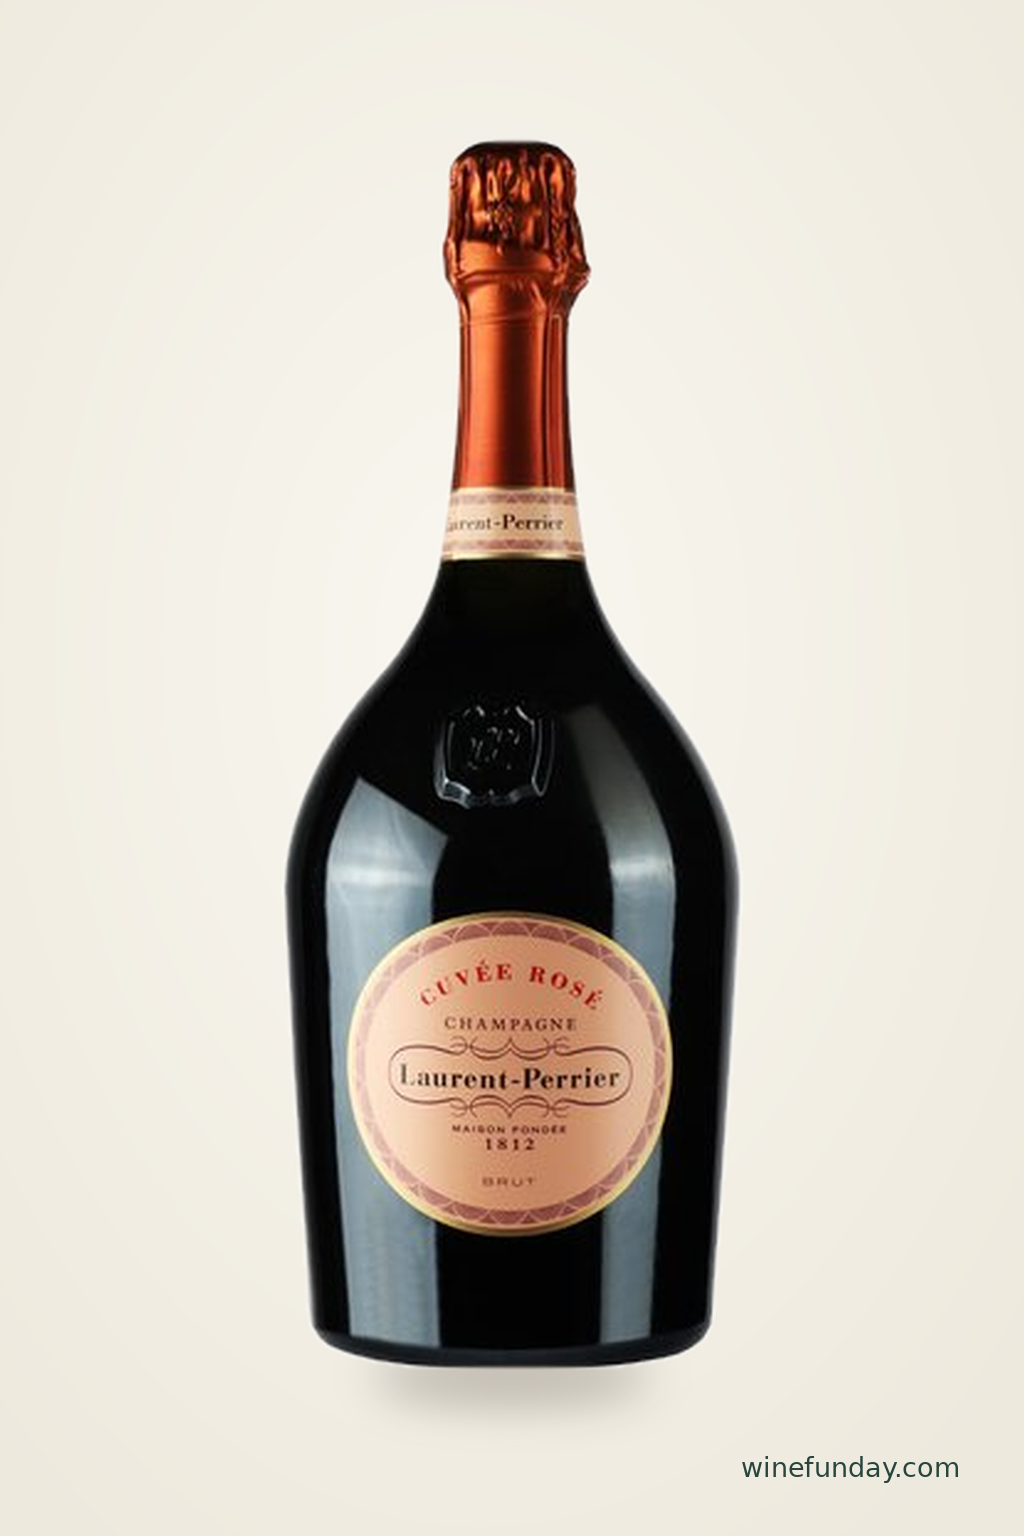
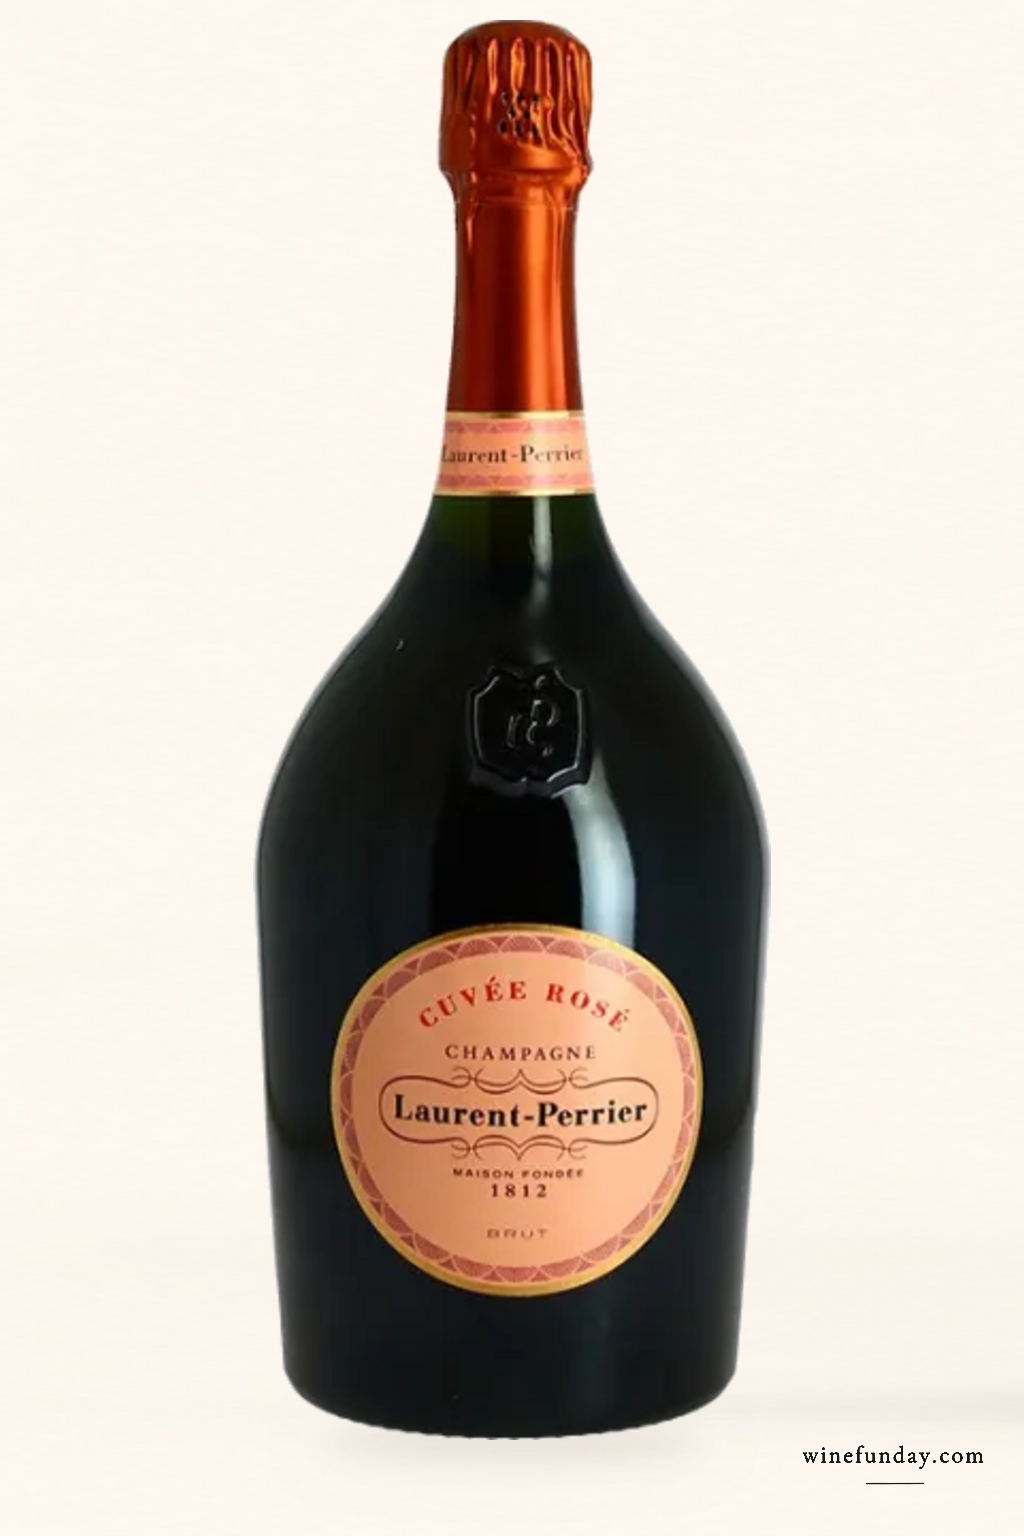
Add verified Laurent-Perrier Cuvée Rosé Magnum image

Changed region(s): [[0.25, 0.0, 0.75, 0.9375], [0.7188, 0.9375, 0.9375, 0.9688]]

diff --git a/wine-image-overrides.js b/wine-image-overrides.js
@@ -10,7 +10,7 @@ window.WINE_IMAGE_OVERRIDES = Object.freeze({
   "CH804-1-NV": "Weinbilder/CH804-1-NV.webp",
   "CH804-2-NV": "Weinbilder/CH804-2-NV.webp",
   "CH805-1-NV": "Weinbilder/CH805-1-NV.webp?v=master-20260918-6",
-  "CH805-2-NV": "Weinbilder/CH805-2-NV.webp",
+  "CH805-2-NV": "Weinbilder/CH805-2-NV.webp?v=master-20260918-7",
   "CH805-3-NV": "Weinbilder/CH805-3-NV.webp",
   "CH806-1-NV": "Weinbilder/CH806-1-NV.webp",
   "CH806-2-NV": "Weinbilder/CH806-2-NV.webp",
